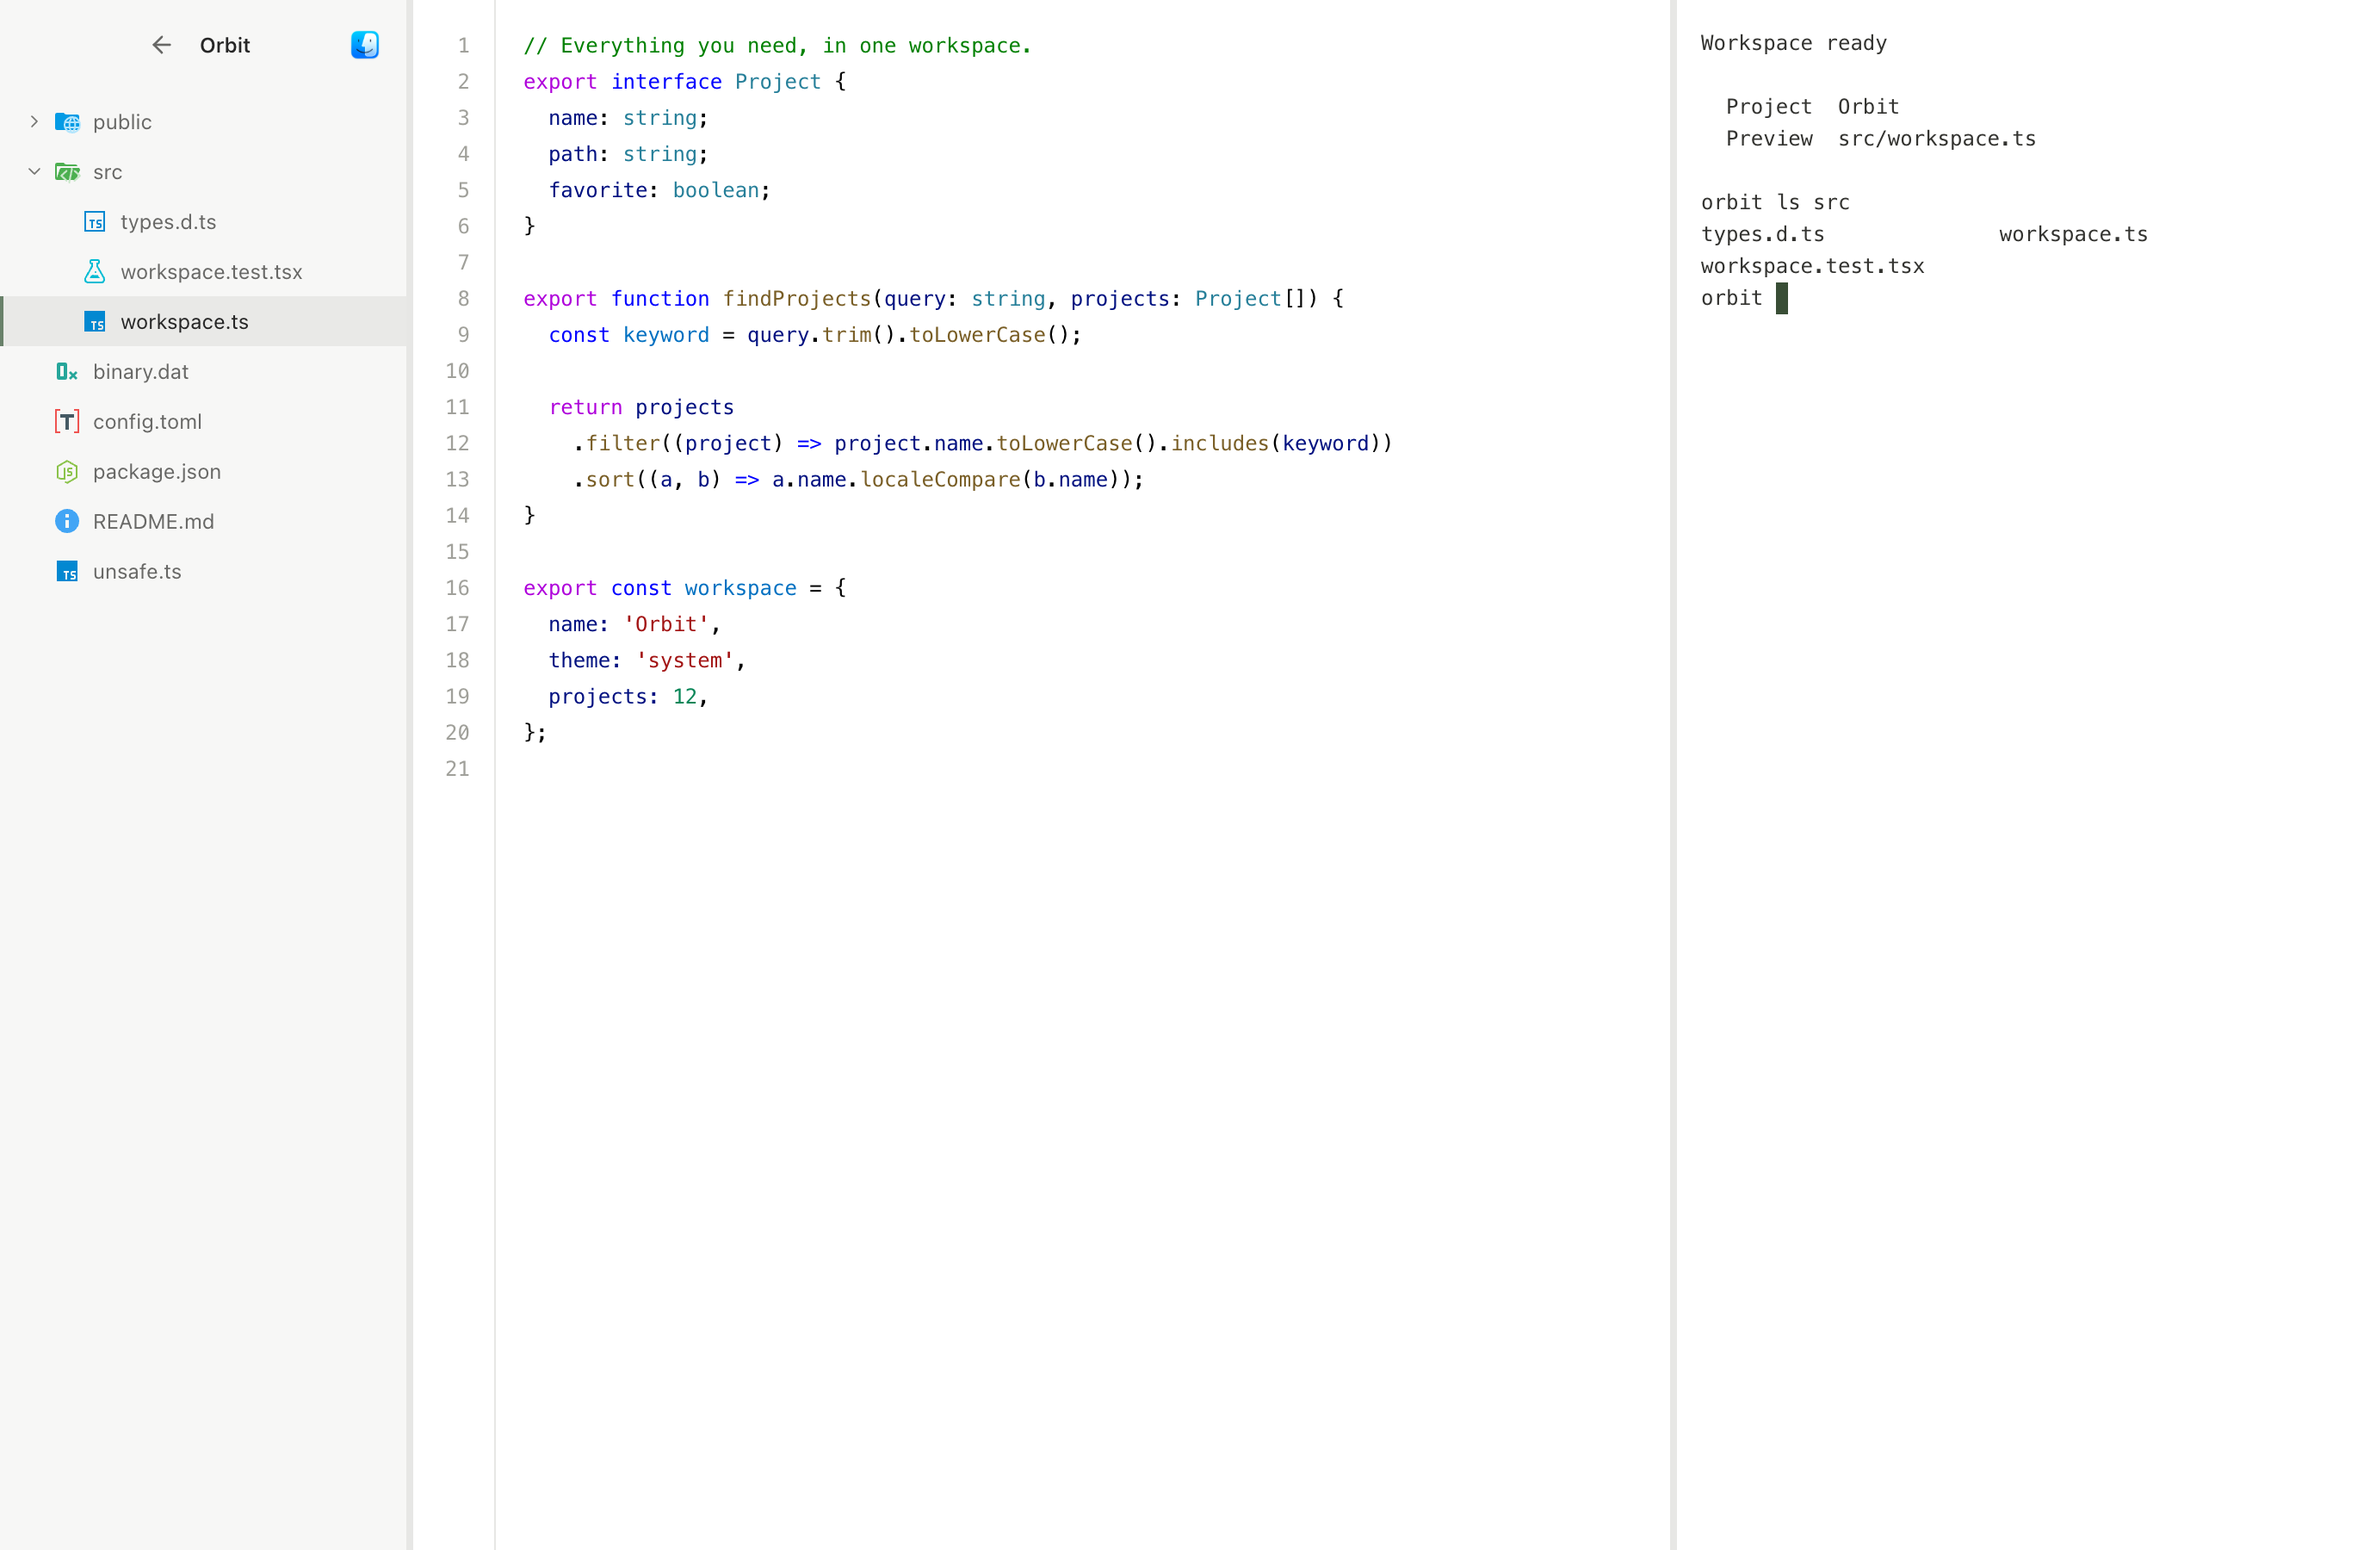
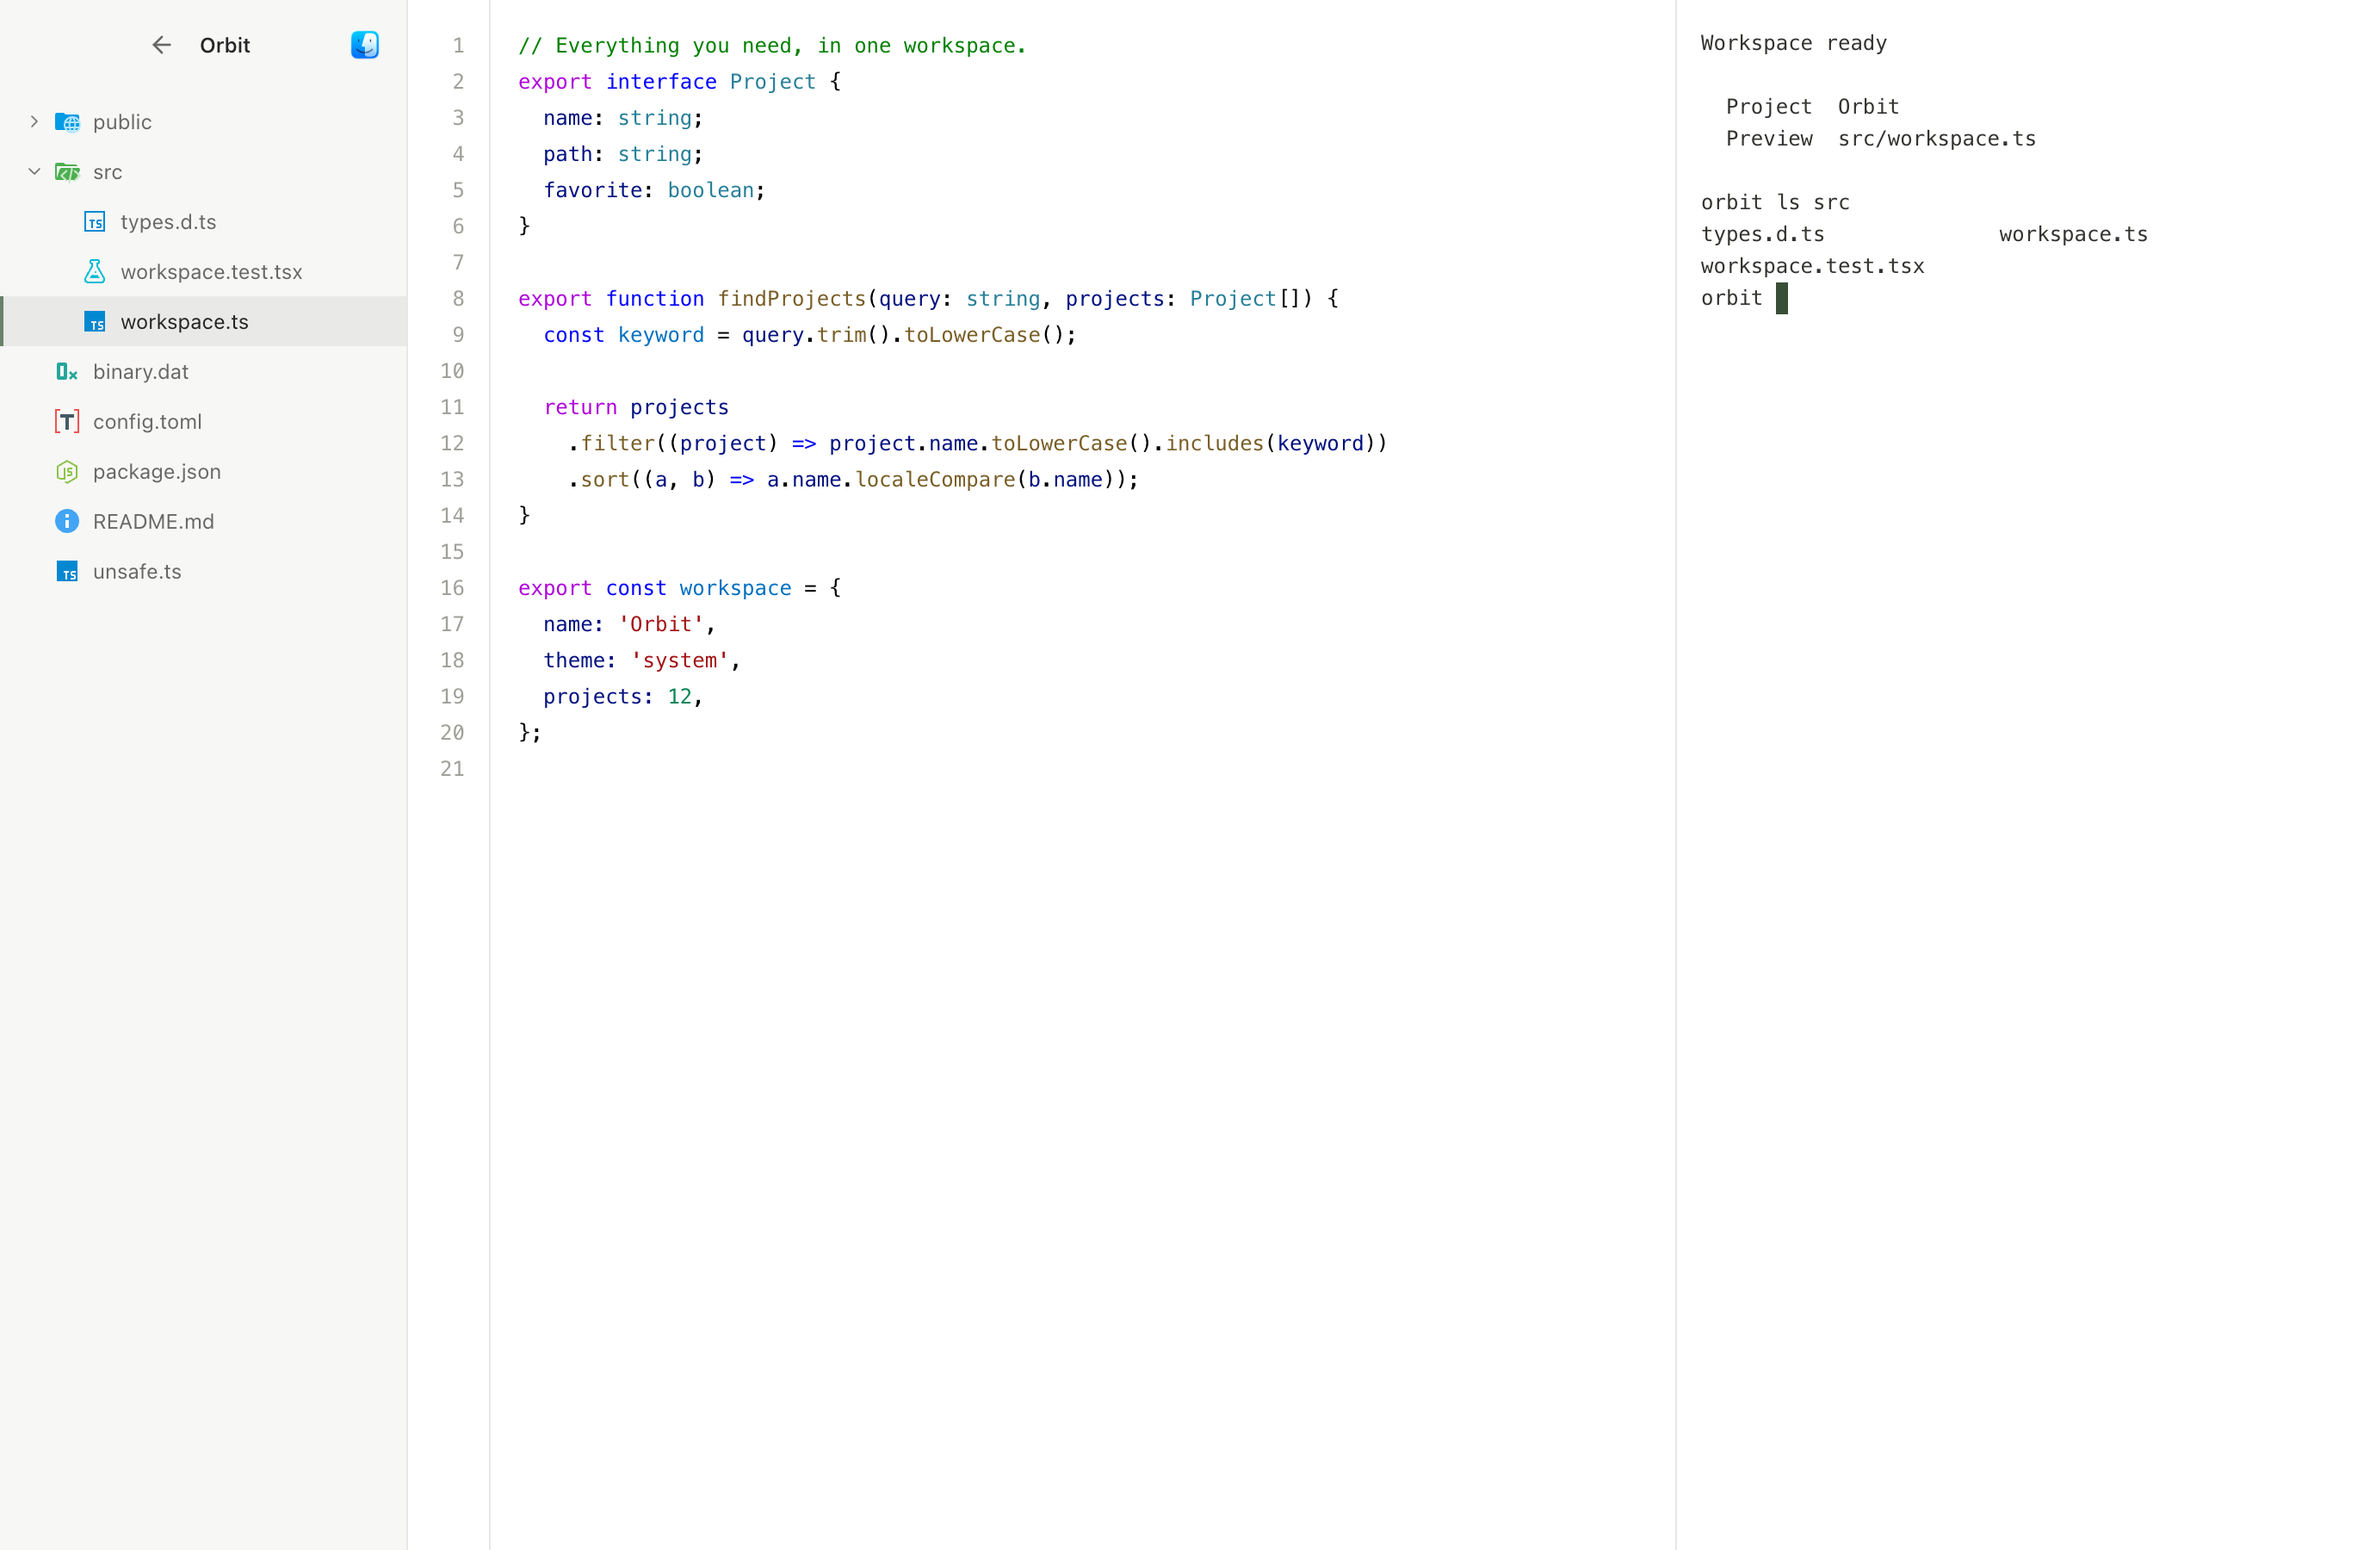
Lighten frosted header and thin panel dividers without shrinking hit areas

diff --git a/src/ProjectWorkbench.tsx b/src/ProjectWorkbench.tsx
@@ -76,7 +76,7 @@ export default function ProjectWorkbench({
     if (!layout.current) return;
     const observer = new ResizeObserver(([entry]) => {
       setTerminalWidth((value) =>
-        Math.max(260, Math.min(value, entry.contentRect.width - treeWidth - 268)),
+        Math.max(260, Math.min(value, entry.contentRect.width - treeWidth - 262)),
       );
     });
     observer.observe(layout.current);
@@ -95,8 +95,8 @@ export default function ProjectWorkbench({
   const resize = (side: 'tree' | 'terminal', value: number) => {
     const total = layout.current?.clientWidth || window.innerWidth;
     if (side === 'tree')
-      setTreeWidth(Math.max(minTreeWidth, Math.min(value, 420, total - terminalWidth - 268)));
-    else setTerminalWidth(Math.max(260, Math.min(value, total - treeWidth - 268)));
+      setTreeWidth(Math.max(minTreeWidth, Math.min(value, 420, total - terminalWidth - 262)));
+    else setTerminalWidth(Math.max(260, Math.min(value, total - treeWidth - 262)));
   };
   function separator(side: 'tree' | 'terminal') {
     return (
@@ -109,7 +109,7 @@ export default function ProjectWorkbench({
         aria-valuemax={
           side === 'tree'
             ? 420
-            : Math.max(260, (layout.current?.clientWidth || window.innerWidth) - treeWidth - 268)
+            : Math.max(260, (layout.current?.clientWidth || window.innerWidth) - treeWidth - 262)
         }
         aria-valuenow={side === 'tree' ? treeWidth : terminalWidth}
         tabIndex={0}
@@ -159,7 +159,7 @@ export default function ProjectWorkbench({
         className="workbench-layout"
         ref={layout}
         style={{
-          gridTemplateColumns: `${treeWidth}px 4px minmax(260px, 1fr) 4px ${terminalWidth}px`,
+          gridTemplateColumns: `${treeWidth}px 1px minmax(260px, 1fr) 1px ${terminalWidth}px`,
         }}
       >
         <aside className="explorer-panel" aria-label="资源管理器">

diff --git a/src/workbench.css b/src/workbench.css
@@ -15,9 +15,9 @@
   align-items: center;
   min-height: 52px;
   padding: 0 12px;
-  background: color-mix(in srgb, var(--sidebar) 75%, transparent);
-  -webkit-backdrop-filter: blur(16px) saturate(130%);
-  backdrop-filter: blur(16px) saturate(130%);
+  background: color-mix(in srgb, var(--sidebar) 45%, transparent);
+  -webkit-backdrop-filter: blur(14px) saturate(130%);
+  backdrop-filter: blur(14px) saturate(130%);
   flex-shrink: 0;
   -webkit-app-region: drag;
 }
@@ -189,17 +189,33 @@
   color: var(--error-text);
 }
 .panel-resizer {
-  background: var(--border);
+  position: relative;
+  z-index: 3;
+  left: -1.5px;
+  width: 4px;
   cursor: col-resize;
   touch-action: none;
   user-select: none;
+}
+.panel-resizer::after {
+  content: '';
+  position: absolute;
+  top: 0;
+  bottom: 0;
+  left: 50%;
+  width: 1px;
+  transform: translateX(-50%);
+  background: var(--border);
+  pointer-events: none;
   transition: background 0.15s;
 }
-.panel-resizer:hover,
-.panel-resizer:active,
 .panel-resizer:focus-visible {
-  background: var(--status);
   outline: none;
+}
+.panel-resizer:hover::after,
+.panel-resizer:active::after,
+.panel-resizer:focus-visible::after {
+  background: var(--status);
 }
 .file-viewport {
   flex: 1;
